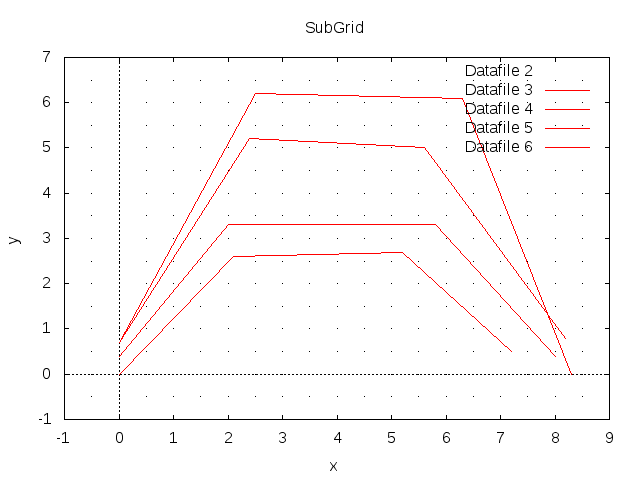
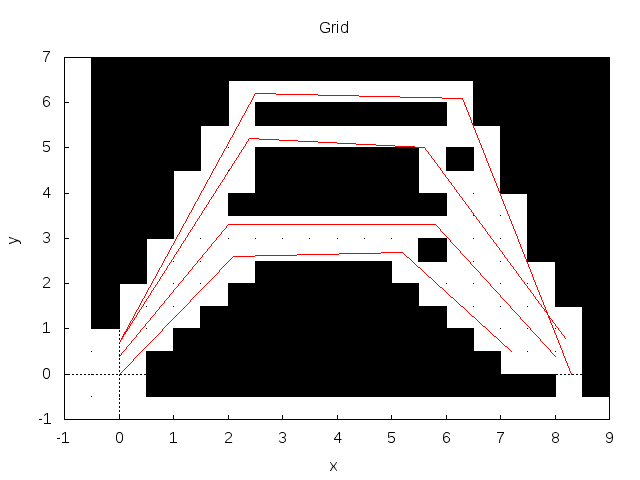
can now generate graphs with subgrid covers B-)

diff --git a/src/main/java/org/cidarlab/gridtli/Visualize/JavaPlotAdaptor.java b/src/main/java/org/cidarlab/gridtli/Visualize/JavaPlotAdaptor.java
@@ -71,12 +71,54 @@ public class JavaPlotAdaptor {
             dsp.setPlotStyle(sps);
             plot.addPlot(dsp);
         }
+        int count =1;
+        for(SubGrid subgrid: grid.getSubGrid()){
+            if(!subgrid.isCovered()){
+                System.out.println("Covered: " +  subgrid.getXOrigin()+","+subgrid.getYOrigin());
+                String obj = "object " + count;
+                String rect = "rect from " + subgrid.getXOrigin()+","+subgrid.getYOrigin() + " to " + (subgrid.getXOrigin() + grid.getXIncrement()) + "," + (subgrid.getYOrigin()+grid.getYIncrement()) + " fc rgb \"black\"";
+                
+                plot.set(obj, rect);
+                count++;
+            }
+        }
         
         plot.getAxis("x").setLabel("x");
         plot.getAxis("y").setLabel("y");
-        plot.setTitle("SubGrid");
+        plot.setTitle("Grid");
         plot.set("xzeroaxis", "");
         plot.set("yzeroaxis", "");
+        plot.set("key", "off");
+        System.out.println(plot.getCommands());
+        return plot;
+    }
+    
+    public static JavaPlot plotGridwithoutCover(Grid grid){
+        JavaPlot plot = new JavaPlot();
+        PlotStyle ps = new PlotStyle();
+        ps.setStyle(Style.DOTS);
+        ps.setLineType(NamedPlotColor.BLACK);
+        PointDataSet pdsgrid = new PointDataSet(getSubGridJPlotPoints(grid.getSubGrid()));
+        DataSetPlot dspgrid = new DataSetPlot(pdsgrid);
+        dspgrid.setPlotStyle(ps);
+        plot.addPlot(dspgrid);
+        
+        for(Signal signal:grid.getSignals()){
+            PlotStyle sps = new PlotStyle();
+            sps.setStyle(Style.LINES);
+            sps.setLineType(NamedPlotColor.RED);
+            PointDataSet psd = new PointDataSet(getSignalJPlotPoints(signal));
+            DataSetPlot dsp = new DataSetPlot(psd);
+            dsp.setPlotStyle(sps);
+            plot.addPlot(dsp);
+        }
+        
+        plot.getAxis("x").setLabel("x");
+        plot.getAxis("y").setLabel("y");
+        plot.setTitle("Grid");
+        plot.set("xzeroaxis", "");
+        plot.set("yzeroaxis", "");
+        plot.set("key", "off");
         return plot;
     }
     
@@ -94,8 +136,7 @@ public class JavaPlotAdaptor {
         plot.setTitle("SubGrid");
         plot.set("xzeroaxis", "");
         plot.set("yzeroaxis", "");
-        
-        System.out.println(plot.getCommands());
+        plot.set("key", "off");
         
         return plot;
     }

diff --git a/src/main/java/org/cidarlab/gridtli/DOM/Grid.java b/src/main/java/org/cidarlab/gridtli/DOM/Grid.java
@@ -74,6 +74,7 @@ public class Grid {
         this.centered = false;
 
         createSubGrid();
+        setSubGridCovers();
     }
 
     public Grid(List<Signal> _signals, double _xIncrement, double _yIncrement) {
@@ -90,6 +91,7 @@ public class Grid {
         this.centered = false;
 
         createSubGrid();
+        setSubGridCovers();
     }
 
     public Grid(List<Signal> _signals, double _xIncrement, double _yIncrement, double _xUpperLimit, double _xLowerLimit, double _yUpperLimit, double _yLowerLimit) {
@@ -106,6 +108,7 @@ public class Grid {
         this.centered = false;
 
         createSubGrid();
+        setSubGridCovers();
     }
 
     private void createSubGrid() {
@@ -255,7 +258,20 @@ public class Grid {
         
 
     }
-
+    
+    private void setSubGridCovers(){
+        for(SubGrid subgrid: this.subGrid){
+            for(Signal signal:this.signals){
+                List<Point> possiblePoints = signal.getGridPoints(subgrid.getXOrigin(), this.xIncrement);
+                for(int i=0;i< possiblePoints.size()-1; i++){
+                    if(this.inGrid(subgrid.getXOrigin(), this.xIncrement , subgrid.getYOrigin(), this.yIncrement, possiblePoints.get(i), possiblePoints.get(i+1))){
+                        subgrid.setCovered(true);
+                    }
+                }
+            }
+        }
+    }
+    
     public double getxMax() {
         double max = this.signals.get(0).getxMax();
         for (Signal signal : this.signals) {

diff --git a/src/test/java/org/cidarlab/gridtli/TLI/TemporalLogicInferenceTest.java b/src/test/java/org/cidarlab/gridtli/TLI/TemporalLogicInferenceTest.java
@@ -93,6 +93,7 @@ public class TemporalLogicInferenceTest {
         System.out.println("\nSubGrid :: \n" + grid.getSubGrid());
         
         JavaPlotAdaptor.plotToFile(JavaPlotAdaptor.visualizeSubGrid(grid.getSubGrid()), Utilities.getResourcesTempFilepath() + "subgrid.png");
+        JavaPlotAdaptor.plotToFile(JavaPlotAdaptor.plotGridwithoutCover(grid), Utilities.getResourcesTempFilepath() + "gridnoCover.png");
         JavaPlotAdaptor.plotToFile(JavaPlotAdaptor.plotGrid(grid), Utilities.getResourcesTempFilepath() + "grid.png");
         
     }
